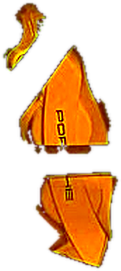
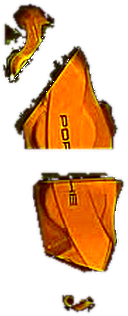
Accurate caliper repaint: traced Porsche outline, cleaner sedan and BMW edges
Claude-Session: https://claude.ai/code/session_01TC8hHsQGEZ2GaHBM8k3cGS

diff --git a/main.js b/main.js
@@ -46,12 +46,12 @@ let presetColor = 'red';
 // box = where the shade layer sits in the 1200x900 photo: [x, y, width, height].
 // Bump ASSET_V whenever a photo or shade layer changes, so phones never pair a cached old
 // photo with a new shade layer (that is what makes the repaint look shifted).
-const ASSET_V = '20261109c';
+const ASSET_V = '20261109d';
 const VEHICLES = {
-  sports:  { img: 'assets/img/caliper-sports.webp?v=' + ASSET_V,  shade: 'assets/img/caliper-sports-shade.png?v=' + ASSET_V,  box: [687, 299, 121, 271], alt: 'Black wheel on a red sports car' },
-  sedan:   { img: 'assets/img/caliper-sedan.webp?v=' + ASSET_V,   shade: 'assets/img/caliper-sedan-shade.png?v=' + ASSET_V,   box: [360, 484, 211, 380], size: [1320, 1227], alt: 'Gloss black wheel on a grey sedan' },
+  sports:  { img: 'assets/img/caliper-sports.webp?v=' + ASSET_V,  shade: 'assets/img/caliper-sports-shade.png?v=' + ASSET_V,  box: [683, 294, 128, 316], alt: 'Black wheel on a red sports car' },
+  sedan:   { img: 'assets/img/caliper-sedan.webp?v=' + ASSET_V,   shade: 'assets/img/caliper-sedan-shade.png?v=' + ASSET_V,   box: [361, 484, 212, 379], size: [1320, 1227], alt: 'Gloss black wheel on a grey sedan' },
   truck:   { img: 'assets/img/caliper-truck.webp?v=' + ASSET_V,   shade: 'assets/img/caliper-truck-shade.png?v=' + ASSET_V,   box: [710, 346, 72, 165],  alt: 'Gloss black wheel on a grey pickup truck' },
-  closeup: { img: 'assets/img/caliper-closeup.webp?v=' + ASSET_V, shade: 'assets/img/caliper-closeup-shade.png?v=' + ASSET_V, box: [127, 25, 301, 842], alt: 'Close-up of a brake caliper beside a drilled rotor' }
+  closeup: { img: 'assets/img/caliper-closeup.webp?v=' + ASSET_V, shade: 'assets/img/caliper-closeup-shade.png?v=' + ASSET_V, box: [128, 24, 307, 843], alt: 'Close-up of a brake caliper beside a drilled rotor' }
 };
 const paint = (() => {
   const cv = document.getElementById('caliper-paint');

diff --git a/index.html b/index.html
@@ -124,7 +124,7 @@
       <div class="caliper-view" id="caliper-view" data-mode="photo">
         <canvas id="caliper-canvas" tabindex="0" role="img" aria-label="3D model of a wheel and brake caliper in the selected color. Drag, or use the arrow keys, to change the angle."></canvas>
         <div class="cv-stage" id="cv-stage">
-          <img id="caliper-img" src="assets/img/caliper-sports.webp?v=20261109c" alt="Black wheel on a red sports car" width="1200" height="900" loading="lazy">
+          <img id="caliper-img" src="assets/img/caliper-sports.webp?v=20261109d" alt="Black wheel on a red sports car" width="1200" height="900" loading="lazy">
           <canvas id="caliper-paint" width="193" height="347" aria-hidden="true"></canvas>
         </div>
         <p class="cv-hint" aria-hidden="true"><span class="cv-hint-icon"></span>Drag to rotate</p>
@@ -373,6 +373,6 @@
 </footer>
 
 <script src="caliper-3d.js?v=202611091725" defer></script>
-<script src="main.js?v=202611091820" defer></script>
+<script src="main.js?v=202611091830" defer></script>
 </body>
 </html>
